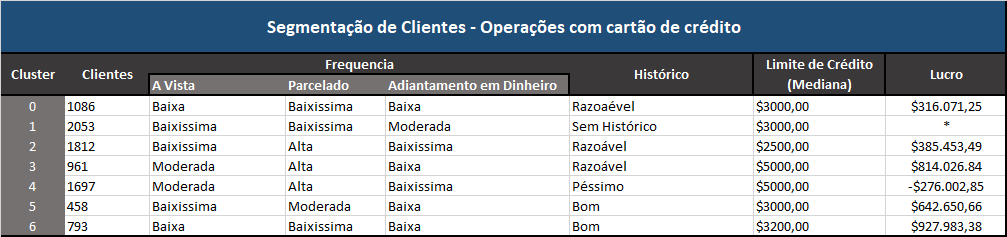
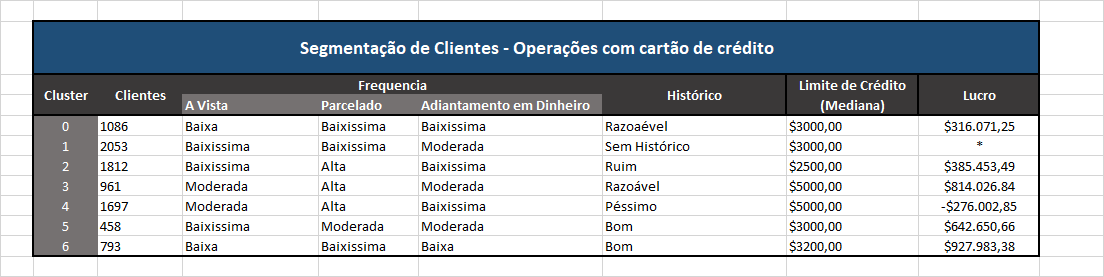
small changes

diff --git a/README.md b/README.md
@@ -51,9 +51,24 @@ Após o desenvolvimento do modelo de clusterização chegamos, numa solução ot
 
 <center><img src="/images/pie.png" alt="pie" width="512" height="411"/></center>
 
-<center><img src="/images/clusters_table.png" alt="clusters" width="1007" height="237"/></center>
+<center><img src="/images/clusters_table.png" alt="clusters" width="1104" height="277"/></center>
 
 <i> O lucro descrito refere-se apenas as operações com cartão de crédito (a vista e parcelado) a base de dados não possui informações suficientes para calcular o lucro referente ao paganmento do adiantamento em dinheiro.<br>
 
-<i> Os clientes do Cluster "01" possuem saldo no cartão de crédito no entando não usam, de qualquer formas as taxas de anuidade, admistração, manutenção entre outras são cobradas, e são lucrativas para o Banco, que lucrou nesse periodo com esses clientes $33.381.864,14.<i>
+Os clientes do Cluster "01" possuem saldo no cartão de crédito no entando não usam, de qualquer formas as taxas de anuidade, admistração, manutenção entre outras são cobradas, e são lucrativas para o Banco, que lucrou nesse periodo com esses clientes $33.381.864,14.</i>
 
+## Plano de Ação
+
+Cluster 00 - São clientes que compram pouco no cartão de crédito, mas quando compram optam pelo pagamento a vista. em baixa quantidade mas de valores mais elevados, possuem tendencia a se endividar. Um plano de ação do Banco poderia ser instruir esse clientes a usarem mais o cartão de crédito parcelado para evitar que se endividem num periodo de tempo curto.
+
+**Cluster 01 -**  São clientes possuem saldo no cartão de crédito mas não utilizam e optam pelo adiantamento em dinheiro. Essas pessoas talvez possuem alguns receios pelo fato das taxas de juros do cartão de crédito, serem maior do que as do adiantamento em dinheiro. Um plano de ação interessante seria iniciar um programa capaz de instruir, estimular e facilitar esses clientes a utilizarem o cartão de crédito, um programa capaz de oferecer suporte ao cliente para facilitar a compreensão das taxas, tarifas e outras obrigações associadas ao uso do cartão de crédito; oferecer opção de pagar suas contas de cartão de crédito online; alertas de pagamento para ajudar os clientes a lembrar de realizar seus pagamentos em tempo, etc.
+
+**Cluster 02 -** São cliente que tem o hábito de comprar com cartão de crédito parcelado, são clientes com tendencia a se endividarem. Um plano de ação poderia ser oferecer incentivos, como descontos, pontos de recompensa e outras vantagens.
+
+**Cluster 03 -** São clientes entusiastas, que estão acostumados a comprar em todas as modalidades e possuem limite de crédito elevado. Um plano de ação seria a criação de um programa de fidelidade, para garantir que esse cliente continue no Banco.
+
+**Cluster 04 -** São clientes endividados, que não estão as vezes o minimo requisitado pelo cartão de crédito. Um plano de ação seria o Banco oferecer um plano de pagamento flexivel que esses clientes parcelassem as dívidas em um prazo maior, com juros menores. Além disso, o banco também poderia oferecer bônus como descontos, cashback e outros incentivos para que os clientes possam quitar suas dívidas mais rapidamente.
+
+**Cluster 05 -** São cliente que tem o hábito de comprar com cartão de crédito parcelado, são clientes com bom historico de pagamento. Um plano de ação poderia ser oferecer incentivos, como descontos, pontos de recompensa e outras vantagens.
+
+**Cluster 06 -** São clientes que compram pouco no cartão de crédito, mas quando compram optam tanto pelo pagamento a vista quanto adiantamento em dinheiro. São clientes possuem saldo mas não utilizam, usam para compras a de maior valor e quase sempre compram a vista, no geral possuem bom histórico de pagamento. Um plano de ação interessante poderia é o aumento do limite de crédito de forma a incentivar compras com valores ainda mais maiores.
